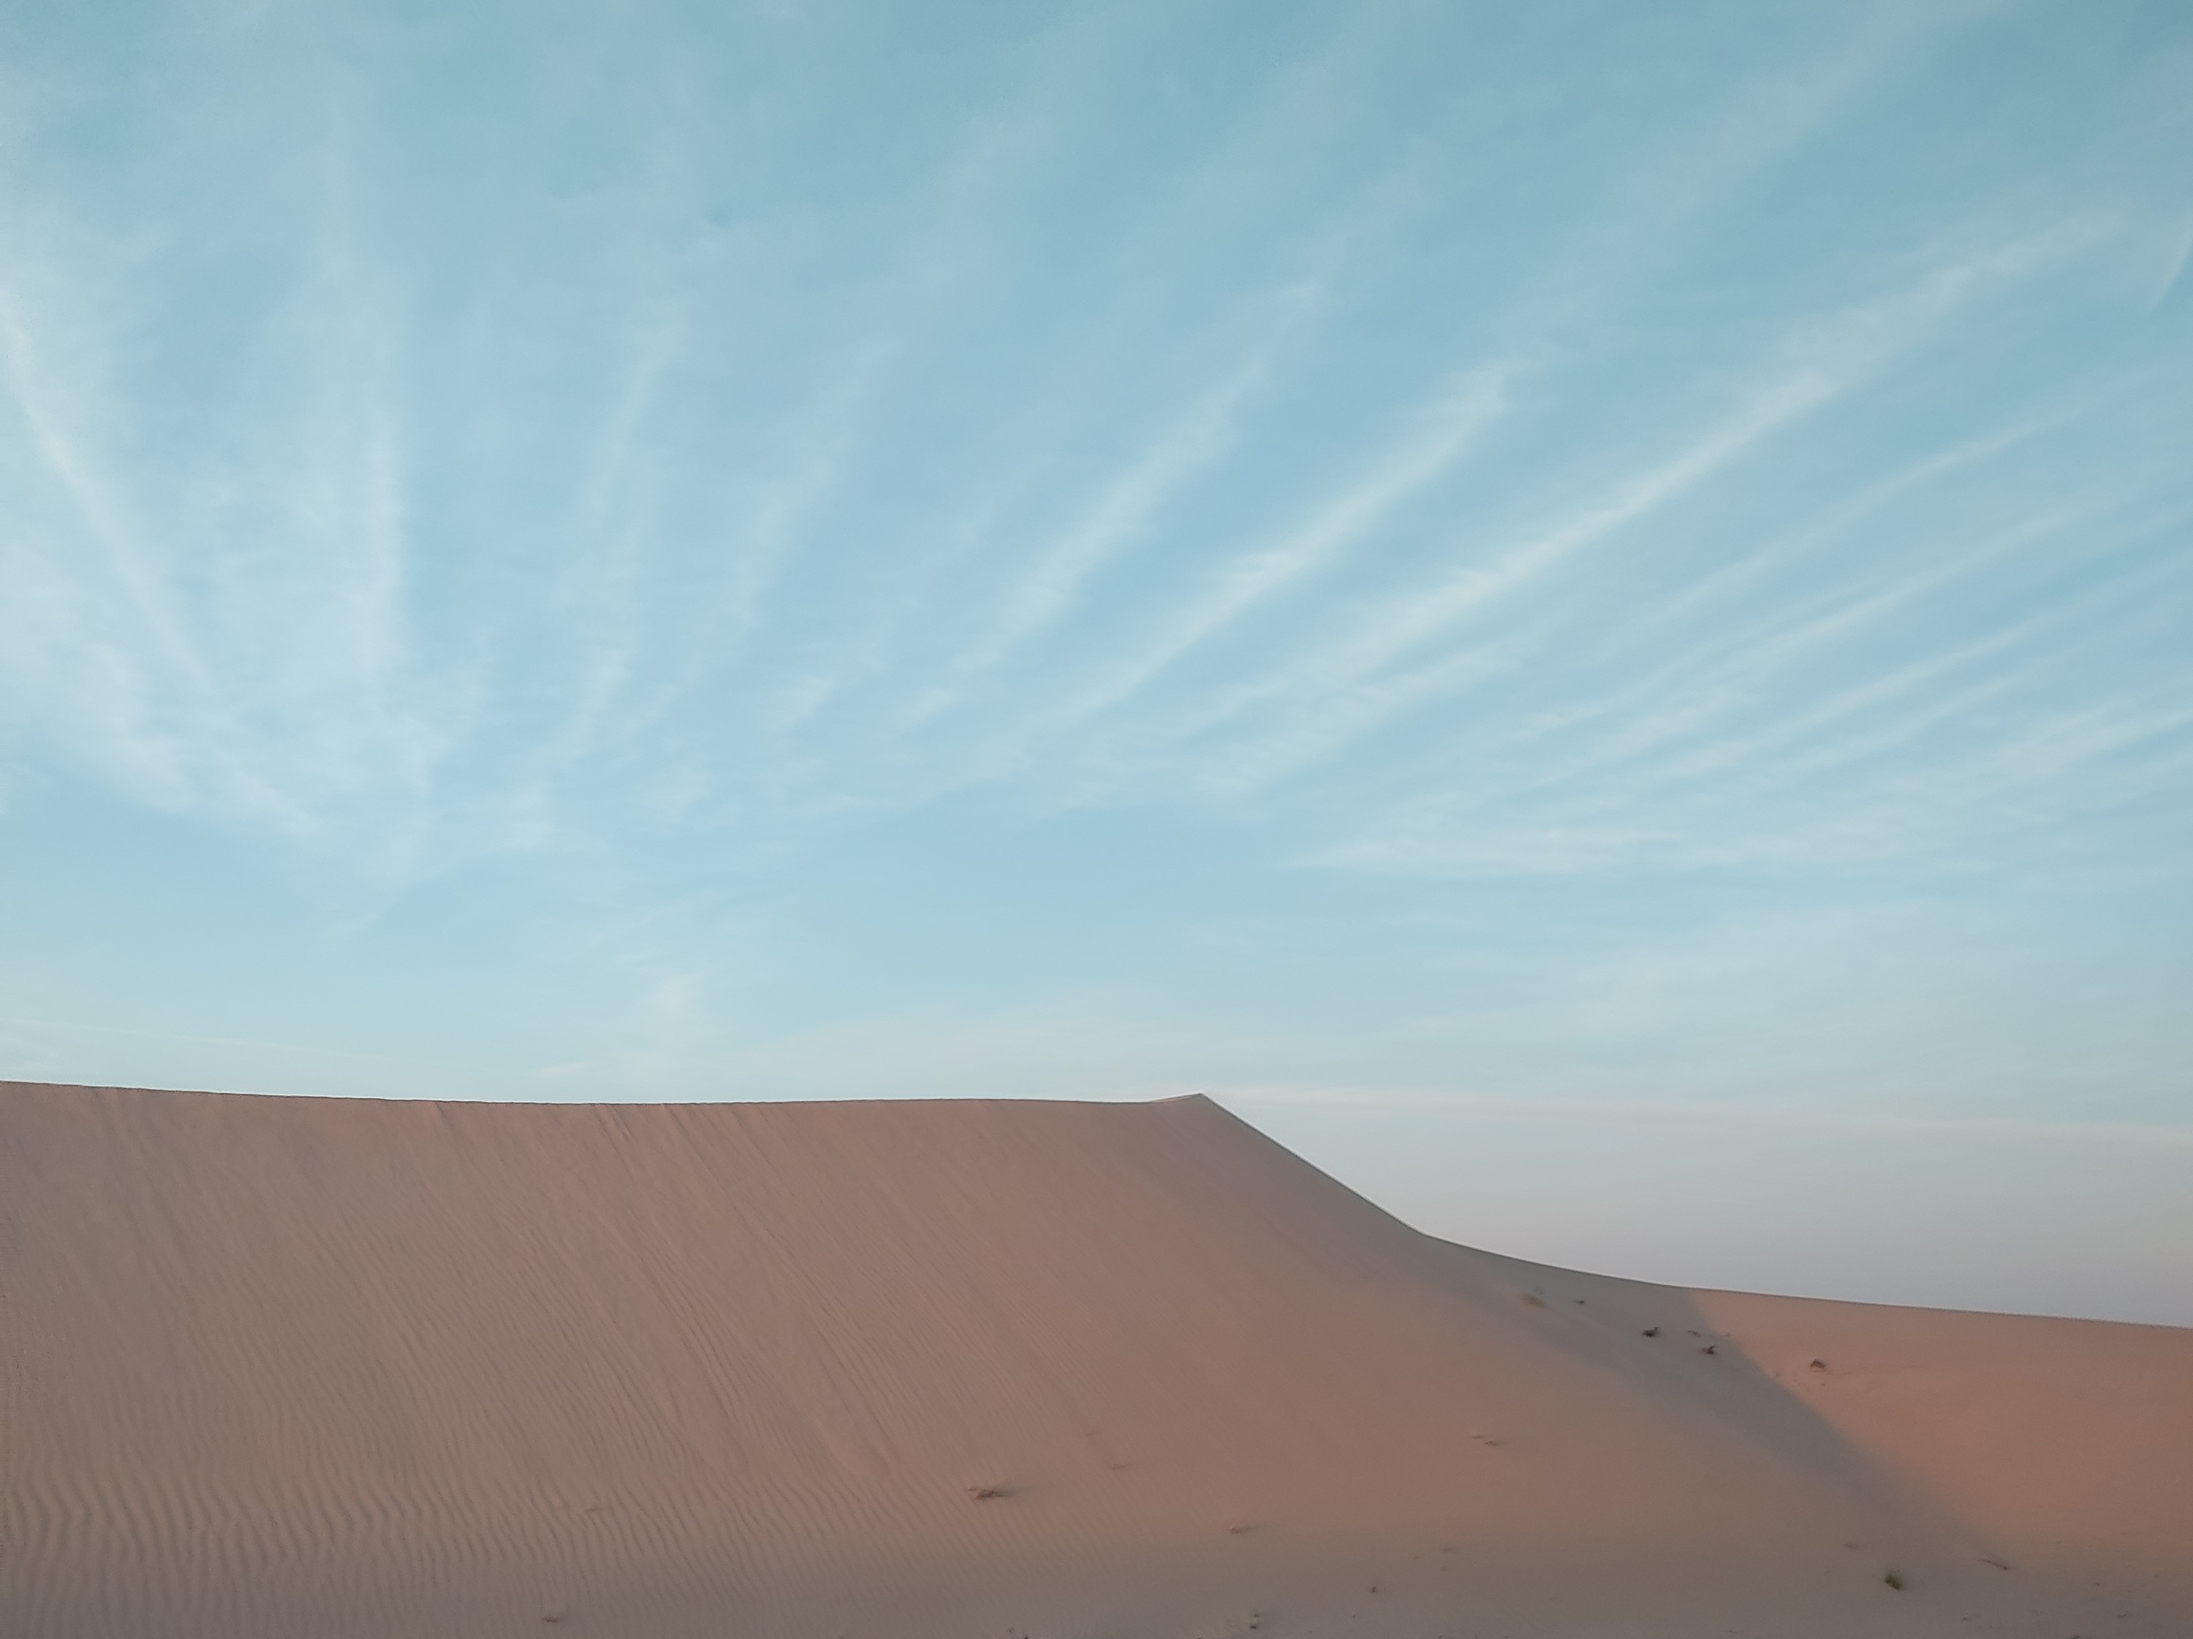
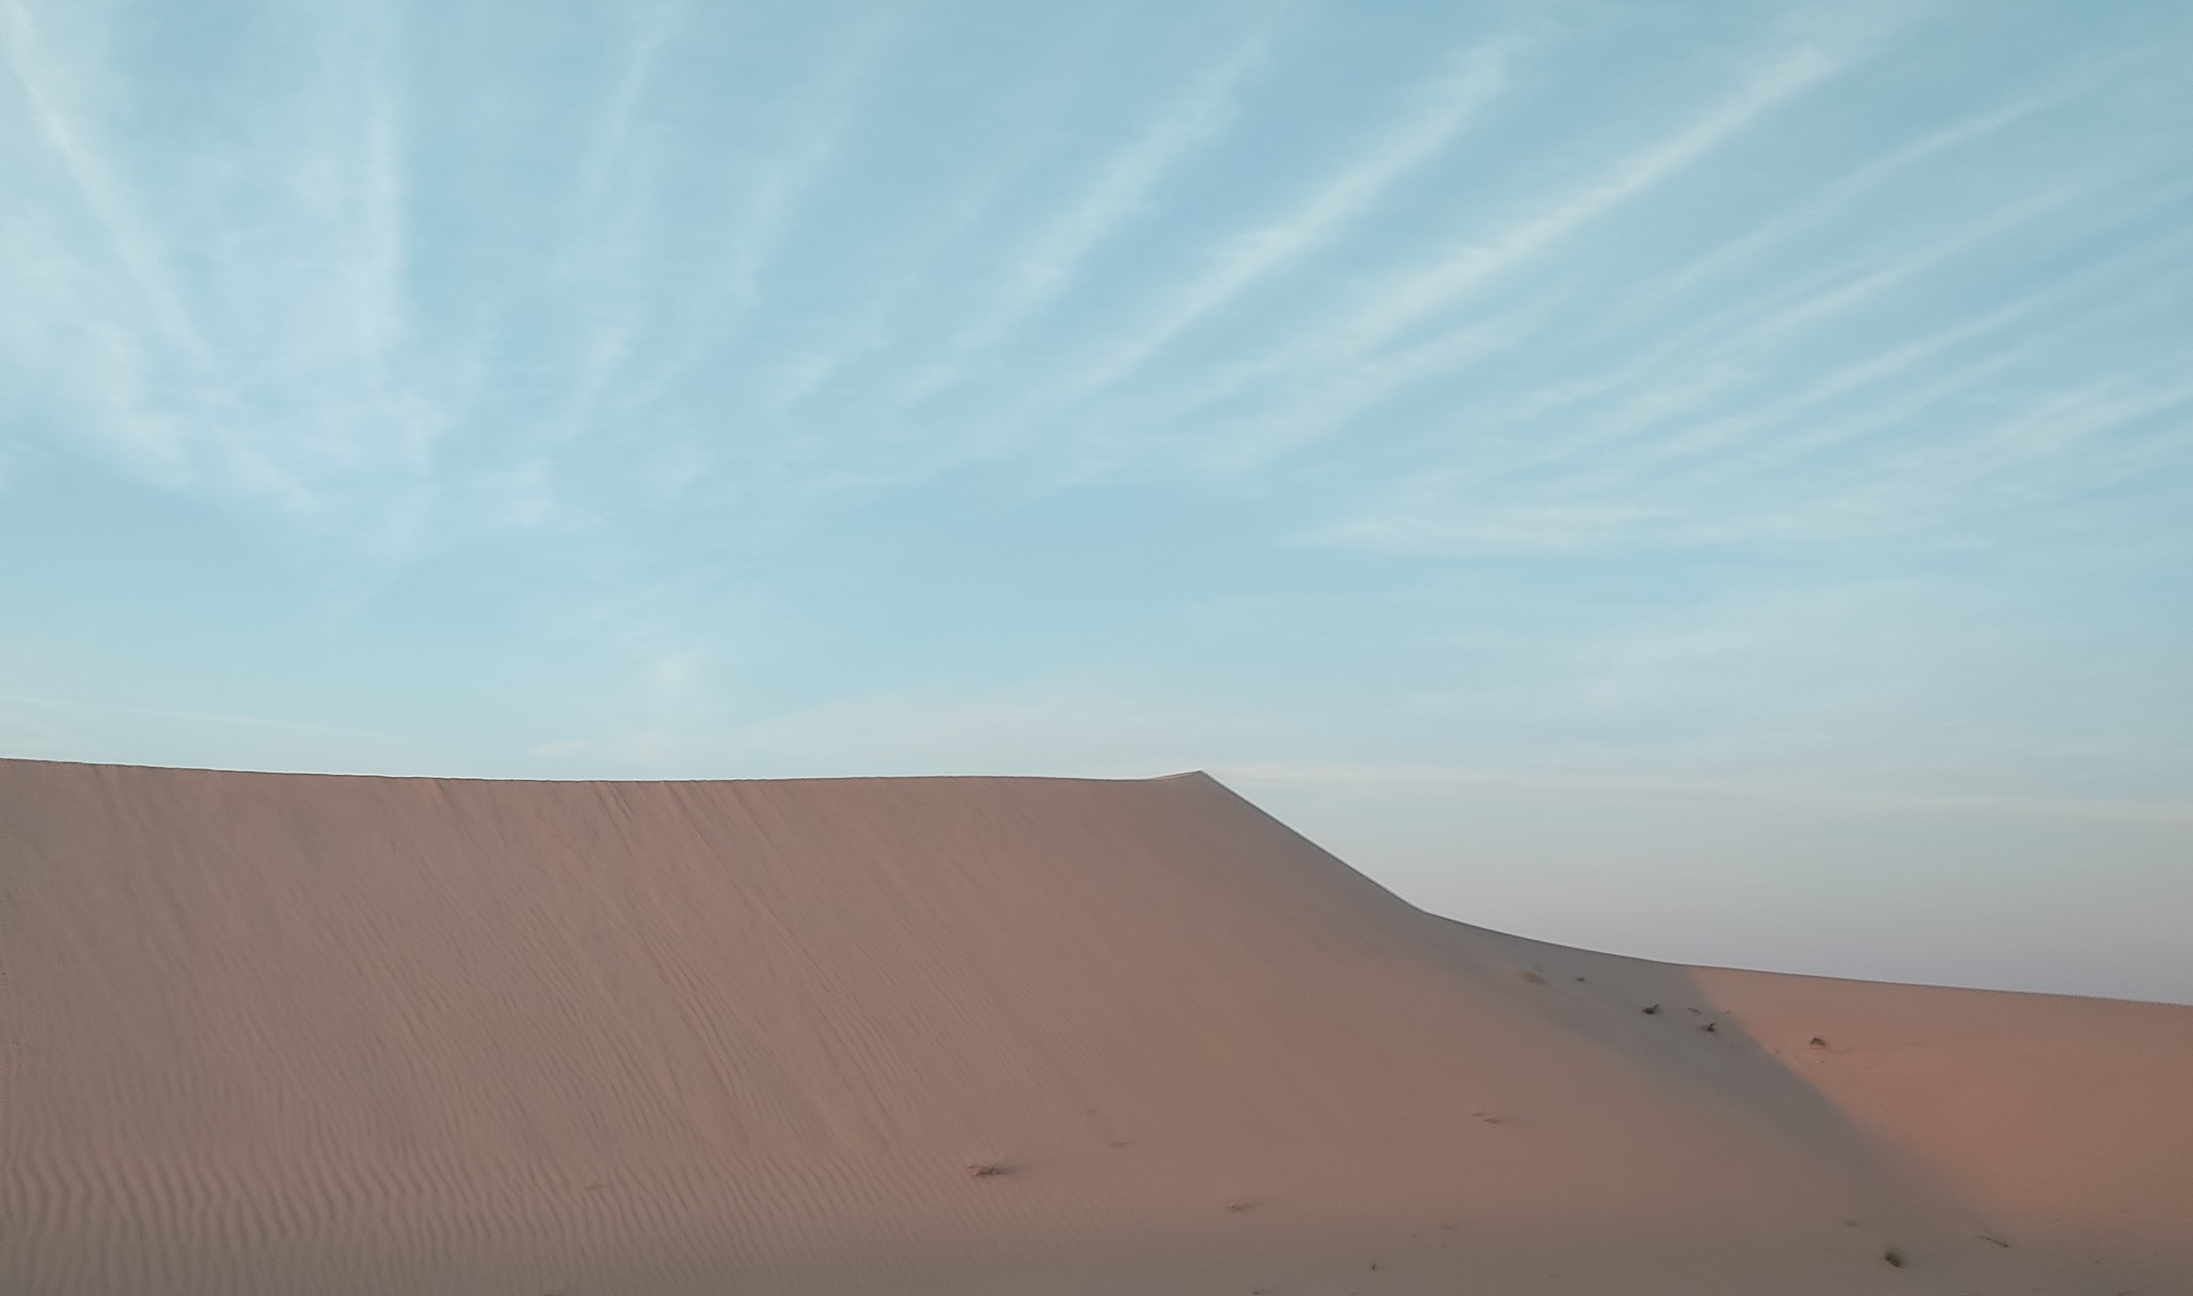
creating down arrow

diff --git a/styles/home.module.css b/styles/home.module.css
@@ -13,11 +13,11 @@
 }
 
 .home {
-    background-image: url('../public/desert2.jpg');
-    background-size: cover;
+    background-image: url('../public/desert1.jpg');
+    background-size: 100vw 95%;
     background-repeat: no-repeat;
     width: 100%;
-    height: 1000px;
+    height: 100vh;
 }
 
 .snsButtons {
@@ -29,27 +29,101 @@
 .snsButtons button {
     margin: 15px 15px 15px 15px;
     font-weight: bold;
-    background-color: transparent; /* Transparent background */
-    border: 5px solid black; /* 5px solid black border */
-    color: black; /* Black text */
-    padding: 15px 32px; /* Padding */
-    text-align: center; /* Center text */
-    text-decoration: none; /* Remove default underline */
-    display: inline-block; /* Make it inline-block */
-    font-size: 16px; /* Font size */
-    cursor: pointer; /* Cursor on hover */
-    border-radius: 8px; /* Border radius */
-    box-shadow: 0 4px 8px rgba(0, 0, 0, 0.2); /* Shadow effect */
-    transition: all 0.3s ease; /* Smooth transition for hover */
-    position: relative; /* Position for sand filling animation */
-    overflow: hidden; /* Hide overflowing sand */
-  }
-  
-  /* Hover effect */
-  .snsButtons button:hover {
-    background-color: transparent; /* Darker background on hover */
-    transform: scale(1.05); /* Increase size on hover */
-    box-shadow: 0 8px 16px rgba(0, 0, 0, 0.2); /* Increased shadow on hover */
-  }
-  
-  
+    background-color: transparent;
+    /* Transparent background */
+    border: 5px solid black;
+    /* 5px solid black border */
+    color: black;
+    /* Black text */
+    padding: 15px 32px;
+    /* Padding */
+    text-align: center;
+    /* Center text */
+    text-decoration: none;
+    /* Remove default underline */
+    display: inline-block;
+    /* Make it inline-block */
+    font-size: 16px;
+    /* Font size */
+    cursor: pointer;
+    /* Cursor on hover */
+    border-radius: 8px;
+    /* Border radius */
+    box-shadow: 0 4px 8px rgba(0, 0, 0, 0.2);
+    /* Shadow effect */
+    transition: all 0.3s ease;
+    /* Smooth transition for hover */
+    position: relative;
+    /* Position for sand filling animation */
+    overflow: hidden;
+    /* Hide overflowing sand */
+}
+
+/* Hover effect */
+.snsButtons button:hover {
+    background-color: transparent;
+    /* Darker background on hover */
+    transform: scale(1.05);
+    /* Increase size on hover */
+    box-shadow: 0 8px 16px rgba(0, 0, 0, 0.2);
+    /* Increased shadow on hover */
+}
+
+.arrow {
+    display: flex;
+    justify-content: center;
+    position: absolute;
+    bottom: -25px;
+    width: 100%;
+    /* Ensure arrow spans the entire width */
+}
+
+.arrow svg {
+    margin-top: 40px;
+}
+
+@keyframes moveUpDown {
+
+    0%,
+    50%,
+    90%,
+    100% {
+        transform: translateY(0);
+    }
+
+    25% {
+        transform: translateY(-20px);
+    }
+
+    70% {
+        transform: translateY(-10px);
+    }
+}
+
+.arrow path {
+    animation: moveUpDown 2.1s ease-in-out infinite;
+}
+
+@media screen and (max-width: 1100px) {
+    .arrow {
+        display: flex;
+        justify-content: center;
+        position: absolute;
+        bottom: -50px;
+        /* Hide arrow */
+    }
+}
+
+@media screen and (max-width: 664px) {
+    .arrow {
+        display: none;
+        /* Hide arrow */
+    }
+}
+
+@media screen and (max-height: 464px) {
+    .arrow {
+        display: none;
+        /* Hide arrow */
+    }
+}

diff --git a/src/app/page.tsx b/src/app/page.tsx
@@ -10,12 +10,17 @@ export default async function Home() {
         <h1><b>Welcome to Trainer Lee&apos;s world</b></h1>
         <p>Hello, my name is Minjae Lee, a aspring software developer who values communication and records.</p>
         <div className={style.snsButtons}>
-        <button>Github</button>
-        <button>Resume</button>
-        <button>LinkedIn</button>
+          <button>Github</button>
+          <button>Resume</button>
+          <button>LinkedIn</button>
+        </div>
+        <div className={style.arrow}>
+          <svg width="50" height="200" viewBox="0 0 24 14" fill="none" xmlns="http://www.w3.org/2000/svg">
+            <path d="M7.41 8.59L12 13.17l4.59-4.58L18 10l-6 6-6-6 1.41-1.41z" fill="#000000"></path>
+          </svg>
         </div>
       </div>
-      
+
     </div>
 
 
